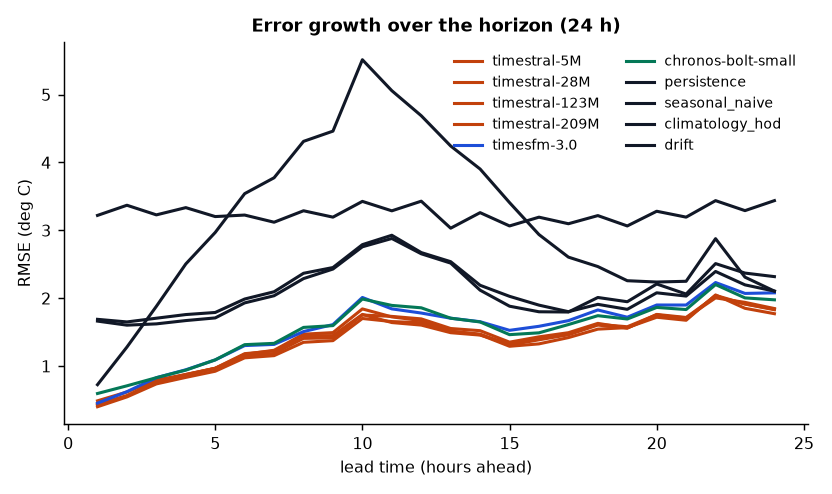
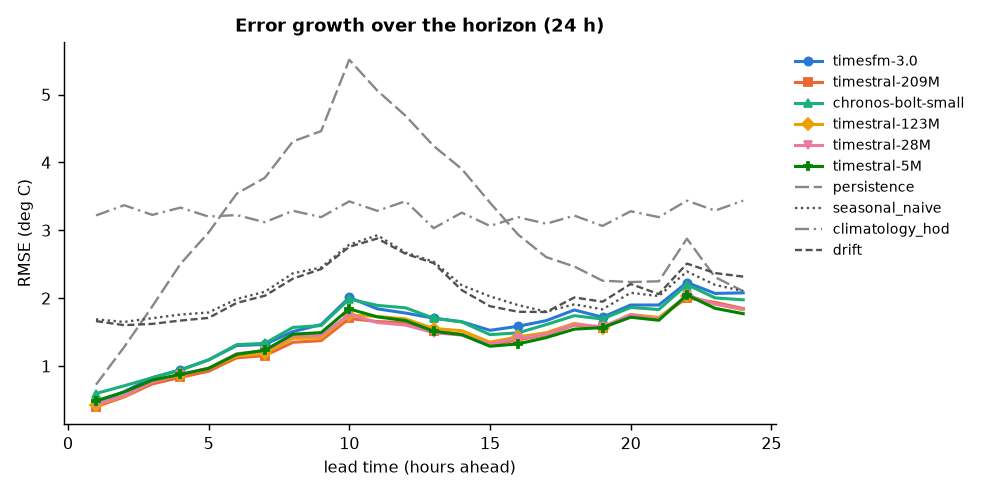
Make the lead-time curves distinguishable
All four Timestral sizes shared one family colour, so their curves merged,
and the baselines fell through the family lookup to near-black because
their names (persistence, drift, ...) do not start with "baseline".

Each foundation model now gets its own hue from a colourblind-validated
categorical order, fixed per model, plus its own marker; baselines are
grey with distinct dash patterns. The legend moves outside the axes so it
no longer covers a curve. Figures re-rendered from step_errors.npz.

diff --git a/src/sensorcast/plots.py b/src/sensorcast/plots.py
@@ -60,17 +60,41 @@ def accuracy_bars(agg: pd.DataFrame, out: Path, metric: str = "mase") -> Path:
     return p
 
 
+# Lead-time curves overlap, so family colour is not enough: every foundation model gets its
+# own hue (a colourblind-validated categorical order, fixed per model so a figure with fewer
+# models never repaints the rest) plus its own marker; baselines recede as grey, told apart
+# by dash pattern.
+LEADTIME_STYLE = {
+    "timesfm-3.0": dict(color="#2a78d6", marker="o"),
+    "timestral-209M": dict(color="#eb6834", marker="s"),
+    "chronos-bolt-small": dict(color="#1baf7a", marker="^"),
+    "timestral-123M": dict(color="#eda100", marker="D"),
+    "timestral-28M": dict(color="#e87ba4", marker="v"),
+    "timestral-5M": dict(color="#008300", marker="P"),
+    "persistence": dict(color="#898781", ls=(0, (6, 2))),
+    "seasonal_naive": dict(color="#52514e", ls=(0, (1, 1.5))),
+    "climatology_hod": dict(color="#898781", ls=(0, (6, 2, 1, 2))),
+    "drift": dict(color="#52514e", ls=(0, (3, 1.5))),
+}
+
+
 def leadtime_curves(err: dict[str, np.ndarray], out: Path, horizon: int) -> Path:
-    fig, ax = plt.subplots(figsize=(6.4, 3.8))
-    for model, arr in err.items():
-        if arr.shape[1] != horizon:
+    fig, ax = plt.subplots(figsize=(7.6, 3.8))
+    order = list(LEADTIME_STYLE) + [m for m in err if m not in LEADTIME_STYLE]
+    for model in order:
+        arr = err.get(model)
+        if arr is None or arr.shape[1] != horizon:
             continue
         rmse = np.sqrt(np.nanmean(arr**2, axis=0))
-        ax.plot(np.arange(1, horizon + 1), rmse, label=model, color=_color(model), lw=1.7)
+        style = LEADTIME_STYLE.get(model, dict(color=_color(model)))
+        fm = "marker" in style
+        ax.plot(np.arange(1, horizon + 1), rmse, label=model, lw=1.7 if fm else 1.3,
+                markersize=4.5, markevery=max(1, horizon // 8), zorder=3 if fm else 2, **style)
     ax.set_xlabel("lead time (hours ahead)")
     ax.set_ylabel("RMSE (deg C)")
     ax.set_title(f"Error growth over the horizon ({horizon} h)")
-    ax.legend(frameon=False, fontsize=7.5, ncol=2)
+    # outside the axes: the curves span the full height, so any inside spot covers one
+    ax.legend(frameon=False, fontsize=7.5, loc="upper left", bbox_to_anchor=(1.01, 1.0))
     fig.tight_layout()
     p = out / f"fig_leadtime_{horizon}h.png"
     fig.savefig(p)
